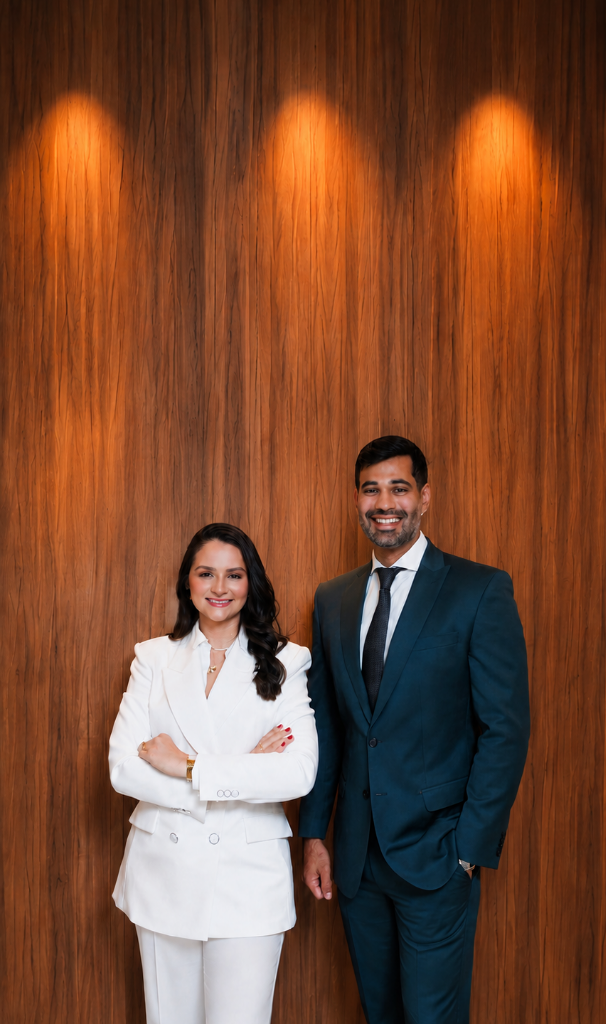
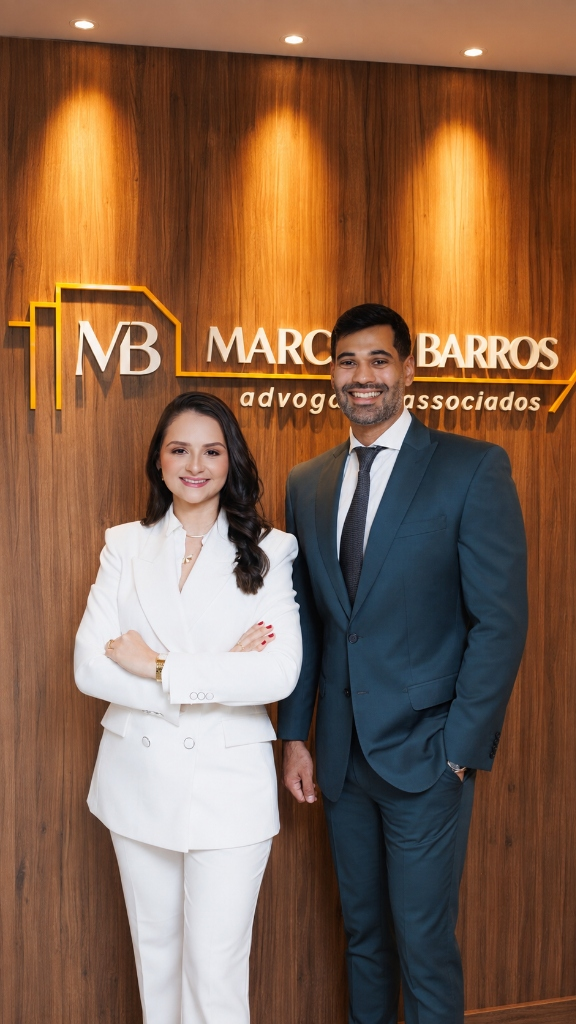
feat: atualiza hero com fotos oficiais, enquadramento vertical no mobile e layout split no terco inferior do desktop

diff --git a/app/globals.css b/app/globals.css
@@ -6,29 +6,32 @@
 
 :root{--ink:#0b0b0a;--cream:#f1eee7;--gold:#d59b42;--muted:#a29d93;--line:rgba(255,255,255,.14)}
 *{box-sizing:border-box}html{scroll-behavior:smooth}body{margin:0;background:var(--ink);color:var(--cream);font-family:"Manrope",sans-serif;overflow-x:hidden}button,a{font:inherit}.site-shell{overflow:hidden}.loader{position:fixed;inset:0;background:#080807;z-index:1000;display:flex;align-items:center;justify-content:center;flex-direction:column;gap:26px}.loader-mark{font-family:"Libre Baskerville",serif;font-size:68px;letter-spacing:-2px;color:var(--gold);opacity:0;transform:scale(.8);font-weight:700}.loader-line{height:1px;width:120px;background:var(--gold);transform:scaleX(0)}
-.topbar{height:94px;position:absolute;top:0;left:0;right:0;z-index:20;display:flex;align-items:center;padding:0 4.7vw;border-bottom:1px solid rgba(255,255,255,.09)}.brand{display:flex;align-items:center;gap:13px;color:white;background:none;border:0;cursor:pointer;padding:0}.brand-monogram{font-family:"Libre Baskerville",serif;font-size:24px;letter-spacing:-1px;border-left:2px solid var(--gold);border-top:2px solid var(--gold);padding:0 7px 3px;font-weight:700}.brand-name{font:600 16px "Manrope",sans-serif;letter-spacing:-.01em;text-align:left}.brand-name small{display:block;color:#d7a45b;letter-spacing:.22em;font-size:7.5px;margin-top:3px;font-weight:700}
-.nav{display:flex;gap:34px;margin:auto}.nav button{background:none;border:0;color:#d6d2ca;font-size:13.5px;font-weight:500;cursor:pointer;transition:.3s;font-family:"Manrope",sans-serif}.nav button:hover{color:var(--gold)}.nav-cta{color:white;text-decoration:none;border:1px solid rgba(213,155,66,.55);padding:13px 19px;border-radius:4px;font-size:12px;font-weight:600;transition:.3s;font-family:"Manrope",sans-serif}.nav-cta:hover{background:var(--gold);color:#111}.nav-cta span{color:var(--gold);margin-right:7px}.menu-toggle{display:none;background:none;border:0;width:40px}.menu-toggle i{display:block;height:1px;background:white;margin:7px 0}
+.topbar{height:88px;position:absolute;top:0;left:0;right:0;z-index:20;display:flex;align-items:center;justify-content:space-between;padding:0 5vw;border-bottom:1px solid rgba(255,255,255,.08);background:linear-gradient(180deg,rgba(8,8,7,.75) 0%,rgba(8,8,7,.3) 70%,transparent 100%);backdrop-filter:blur(8px);-webkit-backdrop-filter:blur(8px)}.brand{display:flex;align-items:center;gap:13px;color:white;background:none;border:0;cursor:pointer;padding:0}.brand-monogram{font-family:"Libre Baskerville",serif;font-size:24px;letter-spacing:-1px;border-left:2px solid var(--gold);border-top:2px solid var(--gold);padding:0 7px 3px;font-weight:700}.brand-name{font:600 16px "Manrope",sans-serif;letter-spacing:-.01em;text-align:left}.brand-name small{display:block;color:#d7a45b;letter-spacing:.22em;font-size:7.5px;margin-top:3px;font-weight:700}
+.nav{display:flex;gap:28px;margin-left:48px;margin-right:auto}.nav button{background:none;border:0;color:#d6d2ca;font-size:13.5px;font-weight:500;cursor:pointer;transition:.3s;font-family:"Manrope",sans-serif}.nav button:hover{color:var(--gold)}.nav-cta{color:white;text-decoration:none;border:1px solid rgba(213,155,66,.55);padding:11px 18px;border-radius:4px;font-size:12px;font-weight:600;transition:.3s;font-family:"Manrope",sans-serif;margin-left:auto}.nav-cta:hover{background:var(--gold);color:#111}.nav-cta span{color:var(--gold);margin-right:7px}.menu-toggle{display:none;background:none;border:0;width:40px}.menu-toggle i{display:block;height:1px;background:white;margin:7px 0}
 /* Hero Full-bleed Background Layout */
-.hero{height:100svh;min-height:760px;position:relative;display:flex;align-items:center;background:#080807;overflow:hidden}
+.hero{height:100svh;min-height:780px;position:relative;display:flex;flex-direction:column;justify-content:flex-end;background:#080807;overflow:hidden}
 .hero-bg-wrapper{position:absolute;inset:0;width:100%;height:100%;z-index:1;overflow:hidden}
+.hero-bg-wrapper:after{content:"";position:absolute;inset:0;pointer-events:none;z-index:2;background:linear-gradient(to top,rgba(8,8,7,.97) 0%,rgba(8,8,7,.82) 22%,rgba(8,8,7,.25) 45%,transparent 68%),linear-gradient(to bottom,rgba(8,8,7,.55) 0%,transparent 15%)}
 .hero-picture{display:block;width:100%;height:100%}
-.hero-bg-img{width:100%;height:100%;object-fit:cover;object-position:right center;filter:none;display:block}
+.hero-bg-img{width:100%;height:100%;object-fit:cover;object-position:center top;filter:none;display:block}
 .hero-bg-overlay{display:none!important}
 .hero-grain{display:none!important}
-.hero-content{position:relative;z-index:3;margin-left:6.5vw;margin-top:40px;max-width:530px}
-.hero-kicker{font-family:"Manrope",sans-serif;font-size:12px;letter-spacing:.22em;color:#efb961;margin:0 0 22px;display:flex;align-items:center;gap:14px;font-weight:700;text-transform:uppercase}
+.hero-content{position:relative;z-index:3;margin:auto 5vw 42px;width:calc(100% - 10vw);max-width:1440px;display:grid;grid-template-columns:1.15fr .85fr;gap:5vw;align-items:flex-end}
+.hero-title-group{max-width:640px}
+.hero-kicker{font-family:"Manrope",sans-serif;font-size:12px;letter-spacing:.22em;color:#efb961;margin:0 0 14px;display:flex;align-items:center;gap:14px;font-weight:700;text-transform:uppercase}
 .hero-kicker span{width:36px;height:1px;background:var(--gold)}
-.hero-title{font:700 clamp(36px,4.3vw,60px)/1.14 "Libre Baskerville",serif;letter-spacing:-.025em;margin:0;color:#f7f4ee;text-shadow:0 4px 24px rgba(0,0,0,.7)}
+.hero-title{font:700 clamp(36px,3.8vw,54px)/1.12 "Libre Baskerville",serif;letter-spacing:-.025em;margin:0;color:#f7f4ee;text-shadow:0 4px 24px rgba(0,0,0,.8)}
 .hero-title .line{display:block;overflow:hidden;padding-bottom:.08em}
 .hero-title .line span{display:block}
 .hero-title em{color:var(--gold);font-style:italic;font-weight:400}
-.hero-copy{font-family:"Manrope",sans-serif;font-size:16.5px;line-height:1.75;color:#d6d1c7;margin:22px 0 32px;max-width:530px;text-shadow:0 2px 12px rgba(0,0,0,.7);font-weight:400}
+.hero-action-group{display:flex;flex-direction:column;align-items:flex-start;gap:18px;padding-bottom:4px}
+.hero-copy{font-family:"Manrope",sans-serif;font-size:15.5px;line-height:1.65;color:#d6d1c7;margin:0;max-width:460px;text-shadow:0 2px 12px rgba(0,0,0,.8);font-weight:400}
 .hero-actions{display:flex;gap:14px;align-items:center}
 .hero-cta-btn{display:inline-flex;align-items:center;gap:10px}
-.hero-badges{margin-top:36px;display:flex;align-items:center;gap:22px;padding-top:24px;border-top:1px solid rgba(255,255,255,0.14);width:fit-content}
-.hero-badge-item strong{display:block;font-size:11px;letter-spacing:0.16em;color:var(--gold);font-weight:700;font-family:"Manrope",sans-serif}
-.hero-badge-item span{display:block;font-size:14px;color:#d8d3c7;margin-top:2px;font-weight:500;font-family:"Manrope",sans-serif}
-.hero-badge-divider{width:1px;height:28px;background:rgba(255,255,255,0.18)}
+.hero-badges{margin-top:4px;display:flex;align-items:center;gap:18px;padding-top:14px;border-top:1px solid rgba(255,255,255,.14);width:fit-content}
+.hero-badge-item strong{display:block;font-size:11px;letter-spacing:.16em;color:var(--gold);font-weight:700;font-family:"Manrope",sans-serif}
+.hero-badge-item span{display:block;font-size:13.5px;color:#d8d3c7;margin-top:2px;font-weight:500;font-family:"Manrope",sans-serif}
+.hero-badge-divider{width:1px;height:24px;background:rgba(255,255,255,.18)}
 .button{padding:16px 28px;border-radius:4px;border:1px solid transparent;cursor:pointer;font-family:"Manrope",sans-serif;font-weight:700;font-size:14.5px;letter-spacing:.05em;text-transform:uppercase;transition:transform .25s,background .25s,box-shadow .25s}
 .button:hover{transform:translateY(-3px)}
 .button span{margin-left:18px}
@@ -287,13 +290,15 @@
       linear-gradient(to bottom, rgba(8,8,7,0.45) 0%, transparent 18%);
   }
   .hero-picture{display:block;width:100%;height:100%}
-  .hero-bg-img{width:100%;height:100%;object-fit:cover;object-position:center 32%;filter:none!important;opacity:1!important;display:block}
+  .hero-bg-img{width:100%;height:100%;object-fit:cover;object-position:center top;filter:none!important;opacity:1!important;display:block}
   .hero-bg-overlay{display:none!important}
-  .hero-content{position:relative;z-index:3;margin:0;padding:105px 22px 28px;width:100%;max-width:100%;background:transparent;display:flex;flex-direction:column;height:100%;justify-content:space-between}
+  .hero-content{position:relative;z-index:3;margin:0;padding:105px 22px 28px;width:100%;max-width:100%;background:transparent;display:flex;flex-direction:column;height:100%;justify-content:space-between;gap:20px}
+  .hero-title-group{max-width:100%}
   .hero-kicker{font-size:12.5px;margin:0 0 10px;letter-spacing:.22em;font-weight:600}
   .hero-kicker span{width:22px}
   .hero-title{font-size:clamp(33px,8.5vw,45px);line-height:1.06;margin:0}
-  .hero-copy{font-size:16px;line-height:1.55;color:#cfcbc2;margin:12px 0 20px}
+  .hero-action-group{width:100%;display:flex;flex-direction:column;gap:14px;padding-bottom:0}
+  .hero-copy{font-size:16px;line-height:1.55;color:#cfcbc2;margin:0}
   .hero-copy br{display:none}
   .hero-actions{flex-direction:column;align-items:stretch;width:100%;gap:10px}
   .hero-cta-btn{width:100%;justify-content:center;padding:15px 18px;font-size:15px;letter-spacing:.04em}

diff --git a/app/page.tsx b/app/page.tsx
@@ -205,29 +205,34 @@ export default function Home() {
           </div>
 
           <div className="hero-content">
-            <p className="hero-kicker"><span /> ADVOCACIA ESTRATÉGICA</p>
-            <h1 className="hero-title">
-              <span className="line"><span>Soluções jurídicas</span></span>
-              <span className="line"><span>para decisões <em>seguras.</em></span></span>
-            </h1>
-            <p className="hero-copy">Atendimento direto, alta precisão técnica e compromisso com o resultado.</p>
-            <div className="hero-actions">
-              <a className="button gold hero-cta-btn" href={getWhatsAppUrl()} target="_blank" rel="noreferrer">
-                Fale conosco
-                <svg className="wpp-icon" viewBox="0 0 448 512" width="18" height="18" fill="currentColor">
-                  <path d="M380.9 97.1C339 55.1 283.2 32 223.9 32c-122.4 0-222 99.6-222 222 0 39.1 10.2 77.3 29.6 111L0 480l117.7-30.9c32.4 17.7 68.9 27 106.1 27h.1c122.3 0 224.1-99.6 224.1-222 0-59.3-25.2-115-67.1-157zm-157 341.6c-33.2 0-65.7-8.9-94-25.7l-6.7-4-69.8 18.3 18.6-68.1-4.4-7c-18.5-29.4-28.2-63.3-28.2-98.2 0-101.7 82.8-184.5 184.6-184.5 49.3 0 95.6 19.2 130.4 54.1 34.8 34.9 56.2 81.2 56.1 130.5 0 101.8-84.9 184.6-186.6 184.6zm101.2-138.2c-5.5-2.8-32.8-16.2-37.9-18-5.1-1.9-8.8-2.8-12.5 2.8-3.7 5.6-14.3 18-17.6 21.8-3.2 3.7-6.5 4.2-12 1.4-32.6-16.3-54-29.1-75.5-66-5.7-9.8 5.7-9.1 16.3-30.3 1.8-3.7.9-6.9-.5-9.7-1.4-2.8-12.5-30.1-17.1-41.2-4.5-10.8-9.1-9.3-12.5-9.5-3.2-.2-6.9-.2-10.6-.2-3.7 0-9.7 1.4-14.8 6.9-5.1 5.6-19.4 19-19.4 46.3 0 27.3 19.9 53.7 22.6 57.4 2.8 3.7 39.1 59.7 94.8 83.8 35.2 15.2 49 16.5 66.6 13.9 10.7-1.6 32.8-13.4 37.4-26.4 4.6-13 4.6-24.1 3.2-26.4-1.3-2.5-5-3.9-10.5-6.6z"/>
-                </svg>
-              </a>
+            <div className="hero-title-group">
+              <p className="hero-kicker"><span /> ADVOCACIA ESTRATÉGICA</p>
+              <h1 className="hero-title">
+                <span className="line"><span>Soluções jurídicas</span></span>
+                <span className="line"><span>para decisões <em>seguras.</em></span></span>
+              </h1>
             </div>
-            <div className="hero-badges">
-              <div className="hero-badge-item">
-                <strong>OAB/PE</strong>
-                <span>Marcelo Barros 35.561</span>
+
+            <div className="hero-action-group">
+              <p className="hero-copy">Atendimento direto, alta precisão técnica e compromisso com o resultado.</p>
+              <div className="hero-actions">
+                <a className="button gold hero-cta-btn" href={getWhatsAppUrl()} target="_blank" rel="noreferrer">
+                  Fale conosco
+                  <svg className="wpp-icon" viewBox="0 0 448 512" width="18" height="18" fill="currentColor">
+                    <path d="M380.9 97.1C339 55.1 283.2 32 223.9 32c-122.4 0-222 99.6-222 222 0 39.1 10.2 77.3 29.6 111L0 480l117.7-30.9c32.4 17.7 68.9 27 106.1 27h.1c122.3 0 224.1-99.6 224.1-222 0-59.3-25.2-115-67.1-157zm-157 341.6c-33.2 0-65.7-8.9-94-25.7l-6.7-4-69.8 18.3 18.6-68.1-4.4-7c-18.5-29.4-28.2-63.3-28.2-98.2 0-101.7 82.8-184.5 184.6-184.5 49.3 0 95.6 19.2 130.4 54.1 34.8 34.9 56.2 81.2 56.1 130.5 0 101.8-84.9 184.6-186.6 184.6zm101.2-138.2c-5.5-2.8-32.8-16.2-37.9-18-5.1-1.9-8.8-2.8-12.5 2.8-3.7 5.6-14.3 18-17.6 21.8-3.2 3.7-6.5 4.2-12 1.4-32.6-16.3-54-29.1-75.5-66-5.7-9.8 5.7-9.1 16.3-30.3 1.8-3.7.9-6.9-.5-9.7-1.4-2.8-12.5-30.1-17.1-41.2-4.5-10.8-9.1-9.3-12.5-9.5-3.2-.2-6.9-.2-10.6-.2-3.7 0-9.7 1.4-14.8 6.9-5.1 5.6-19.4 19-19.4 46.3 0 27.3 19.9 53.7 22.6 57.4 2.8 3.7 39.1 59.7 94.8 83.8 35.2 15.2 49 16.5 66.6 13.9 10.7-1.6 32.8-13.4 37.4-26.4 4.6-13 4.6-24.1 3.2-26.4-1.3-2.5-5-3.9-10.5-6.6z"/>
+                  </svg>
+                </a>
               </div>
-              <div className="hero-badge-divider" />
-              <div className="hero-badge-item">
-                <strong>OAB/PE</strong>
-                <span>Natália Xavier 54.018</span>
+              <div className="hero-badges">
+                <div className="hero-badge-item">
+                  <strong>OAB/PE</strong>
+                  <span>Marcelo Barros 35.561</span>
+                </div>
+                <div className="hero-badge-divider" />
+                <div className="hero-badge-item">
+                  <strong>OAB/PE</strong>
+                  <span>Natália Xavier 54.018</span>
+                </div>
               </div>
             </div>
           </div>
